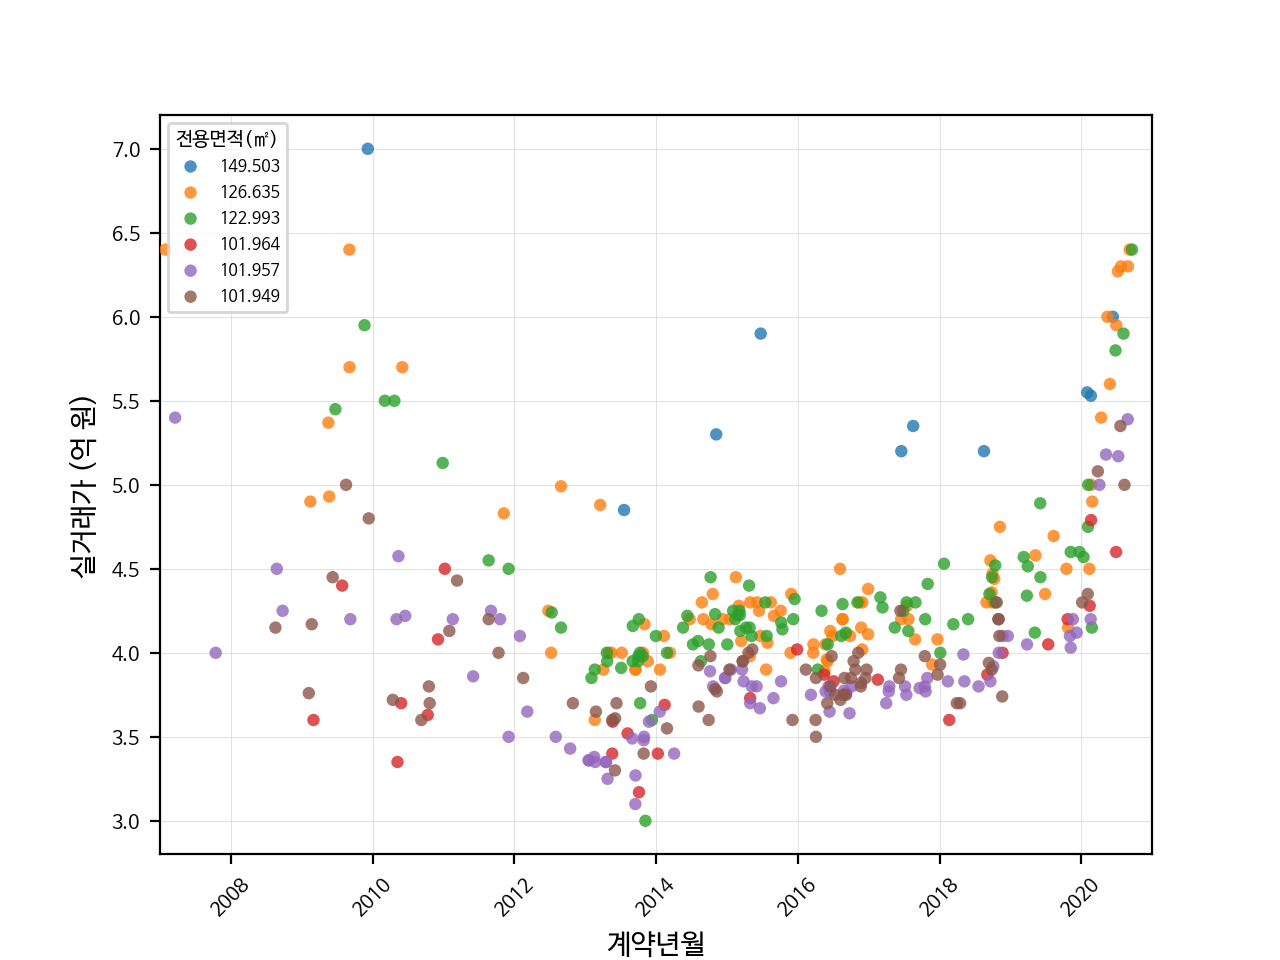
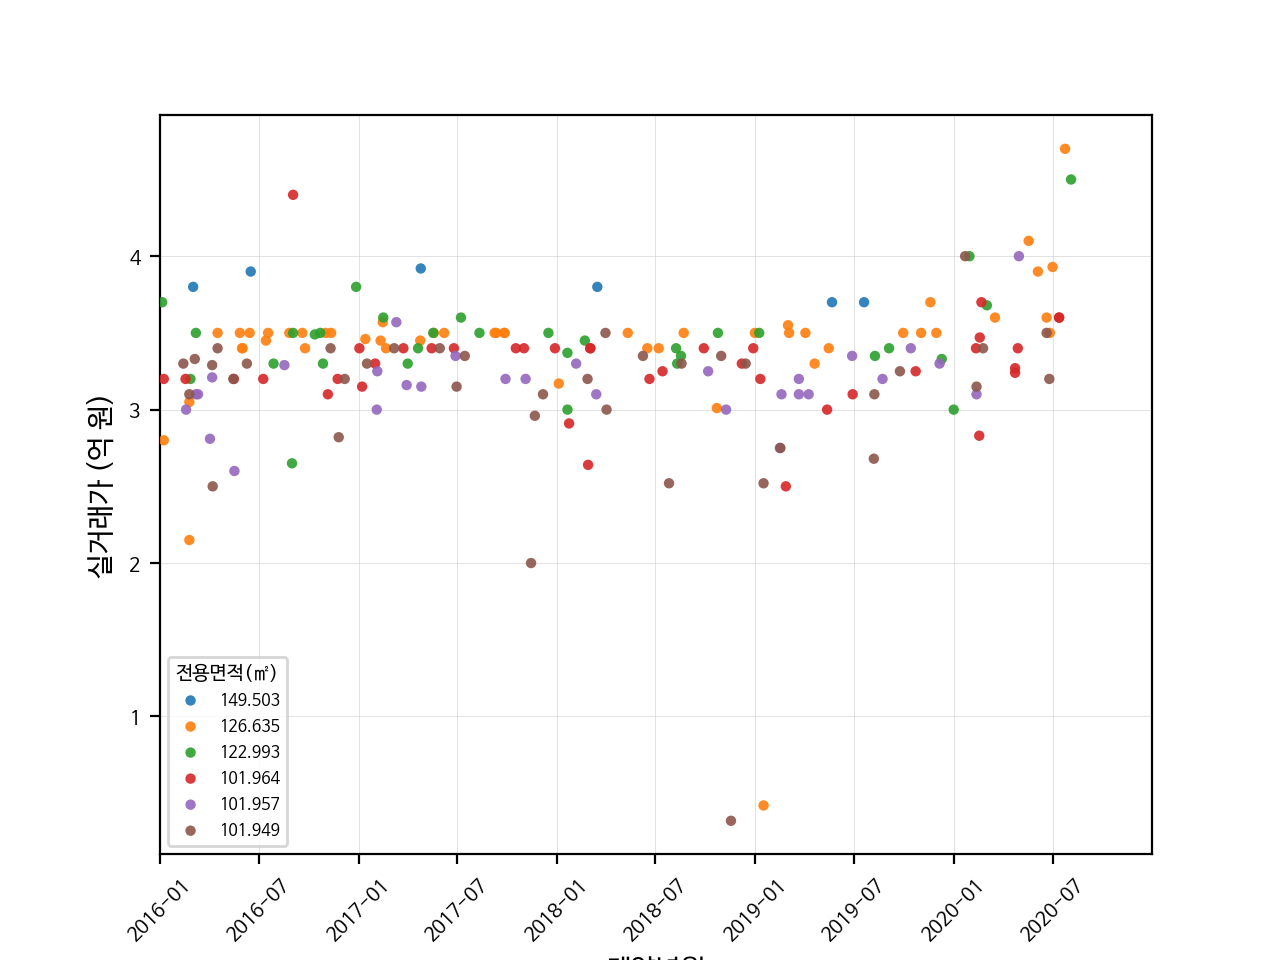
주택가격 거래금액 기준으로 차트를 생성하고 있으나 임대차 경우에는 월세로 인하여 차트 생성에 제한되어 전월세 전환율을 이용하여 거래금액 생성 - 한국감정원의 전월세 전환율을 엑셀로 다운로드  http://kosis.kr/statHtml/statHtml.do?orgId=408&tblId=DT_30404_N0010 - 임대차 거래의 년, 월, 구, 보증금, 월세 정보를 이용하여 거래금액 생성 - class 이름 변경

diff --git a/main.py b/main.py
@@ -6,10 +6,11 @@ import kaptList as al
 import kaptInfo as ai
 import houseDeal as hd
 import elecPlace as ep
-import aptPriceAnalysis as apa
+import housePriceAnalysis as hpa
 import elecZone as ez
 import elecResult as er
 import houseInfo as hi
+import rentChangeRate as cr
 import elecCode as el
 import pandas as pd
 import openpyxl
@@ -69,13 +70,13 @@ doc_house_info = 'doc/공동주택 현황.xlsx'
 doc_elec_place_list = 'doc/투표구 관할구역.xlsx'
 doc_elec_zone_list = 'doc/투표소별 단지 현황.xlsx'
 doc_trade_price = 'doc/주택 매매 현황.xlsx'
-doc_rent_price = 'doc/주택 전월세 현황.xlsx'
+doc_rent_price = 'doc/주택 임대차 현황.xlsx'
 
 price_chart = 'chart.png'
-start_year = 2019
-start_month = 12
+start_year = 2016
+start_month = 1
 end_year = 2020
-end_month = 1
+end_month = 12
 
 if False:
     def get_bjd_code(conf_bjd_code):
@@ -103,7 +104,7 @@ if False:
     kapt_info_final.to_excel(doc_kapt_info)
     print(kapt_info_final)
 
-if True:
+if False:
     house_info = hi.HouseInfo(conf_yiapt_list_file, conf_yiapt_list_sheet, doc_kapt_info, conf_kapt_info_fix)
     house_info.run()
     house_info.print()
@@ -123,14 +124,14 @@ if False:
     elec_zone.match_zone()
     elec_zone.to_excel(doc_elec_zone_list)
 
-if False:
+if True:
     rt_urls = {'apt_trade': 'http://openapi.molit.go.kr:8081/OpenAPI_ToolInstallPackage/service/rest/RTMSOBJSvc/getRTMSDataSvcAptTrade',
                'apt_rent': 'http://openapi.molit.go.kr:8081/OpenAPI_ToolInstallPackage/service/rest/RTMSOBJSvc/getRTMSDataSvcAptRent',
                'rh_trade': 'http://openapi.molit.go.kr:8081/OpenAPI_ToolInstallPackage/service/rest/RTMSOBJSvc/getRTMSDataSvcRHTrade',
                'rh_rent': 'http://openapi.molit.go.kr:8081/OpenAPI_ToolInstallPackage/service/rest/RTMSOBJSvc/getRTMSDataSvcRHRent'}
     target_gus = ['기흥구']
 
-    def get_deal_list(deal_type, export_filename, house_types):
+    def get_deal_list(deal_type, house_types):
         deal_items = []
         for house_type in house_types:
             key = house_type + '_' + deal_type
@@ -144,15 +145,42 @@ if False:
             deal_items.append(deal.items)
 
         house_prices = pd.concat(deal_items, ignore_index=True)
-        house_prices.to_excel(export_filename)
+        return house_prices
 
-    get_deal_list('rent', doc_rent_price, ['apt', 'rh'])
-    get_deal_list('trade', doc_trade_price, ['apt', 'rh'])
+    def postprocess_rent_prices(my_rent_prices):
+        conf_rent_change_rate = 'conf/전월세 전환율.xlsx'
+        rent_change_rates = cr.RentChageRate(conf_rent_change_rate)
+        my_rent_prices['전월세 전환율'] = ''
+        my_rent_prices['거래금액'] = ''
 
-if False:
-    apt_price_analysis = apa.AptPriceAnalysis(doc_rent_price, price_chart, start_year, start_month, end_year, end_month)
-    apt_price_analysis.analysis('중동 870')
+        for index in range(my_rent_prices.index.size):
+            rent = int(my_rent_prices.at[index, '월세금액'])
+            deposit = int(my_rent_prices.at[index, '보증금액'])
+            gu_name = my_rent_prices.at[index, '구']
+            year = int(my_rent_prices.at[index, '년'])
+            month = int(my_rent_prices.at[index, '월'])
+
+            rate = rent_change_rates.get(gu_name, year, month)
+
+            price = (rent*12) / rate * 100 + deposit
+            price = round(price, -2)
+            my_rent_prices.at[index, '전월세 전환율'] = rate
+            my_rent_prices.at[index, '거래금액'] = price
+
+        return my_rent_prices
+
+    trade_prices = get_deal_list('trade', ['apt', 'rh'])
+    trade_prices.to_excel(doc_trade_price)
+
+    rent_prices = get_deal_list('rent', ['apt', 'rh'])
+    rent_prices = postprocess_rent_prices(rent_prices)
+    rent_prices.to_excel(doc_rent_price)
+
+if True:
+    house_price_analysis = hpa.HousePriceAnalysis(doc_rent_price, price_chart, start_year, start_month, end_year, end_month)
+    house_price_analysis.analysis('중동 870')
 
 if False:
     elec_result = er.ElecResult()
     elec_result.run()
+

diff --git a/rentChangeRate.py b/rentChangeRate.py
@@ -1,0 +1,40 @@
+import pandas as pd
+
+
+class RentChageRate:
+    def __init__(self, conf_rent_change_rate):
+        self.items = pd.read_excel(conf_rent_change_rate)
+        self.items.set_index('지역(3)', inplace=True)
+
+        texts = self.items.columns.values[-1].split('. ')
+        self._last_year = int(texts[0])
+        self._last_month = int(texts[1])
+
+        print('한국감정원 전월세 전환율 데이터: 2011.1 ~', self._last_year, '.', self._last_month)
+        print(self.items)
+
+    def _validate_ym(self, year, month):
+        if month < 1:
+            month = 1
+        elif month > 12:
+            month = 12
+
+        if year < 2011:
+            year = 2011
+            month = 1
+        elif year > self._last_year:
+            year = self._last_year
+            month = self._last_month
+        elif year == self._last_year:
+            if month > self._last_month:
+                month = self._last_month
+
+        return year, month
+
+    def get(self, gu_name, year_in, month_in):
+        year, month = self._validate_ym(year_in, month_in)
+        ym = str(year) + '. ' + str(month).zfill(2)
+        rate = self.items.loc[gu_name, ym]
+        # print(gu_name, ym, rate)
+
+        return rate

diff --git a/housePriceAnalysis.py b/housePriceAnalysis.py
@@ -6,7 +6,7 @@ from matplotlib import font_manager
 import numpy as np
 
 
-class AptPriceAnalysis:
+class HousePriceAnalysis:
     def __init__(self, doc_apt_price, price_chart, start_year, start_month, end_year, end_month):
         self.deal_price_all = pd.read_excel(doc_apt_price)
 
@@ -63,7 +63,7 @@ class AptPriceAnalysis:
             area_size = round(area_size, 3)
             print(area_size)
             plot_data = deal_prices[is_size][['date', '거래금액']]
-            ax.scatter(plot_data['date'], plot_data['거래금액']/10000, label=area_size, s=20, alpha=0.8, edgecolors='none', zorder=3)
+            ax.scatter(plot_data['date'], plot_data['거래금액']/10000, label=area_size, s=14, alpha=0.9, edgecolors='none', zorder=3)
 
         ax.legend(fontsize='xx-small', title='전용면적(㎡)', title_fontsize='x-small')
         plt.show()

diff --git a/houseDeal.py b/houseDeal.py
@@ -136,4 +136,8 @@ class HouseDealRent(HouseDeal):
             self._append_data('일', split_item[8])
             self._append_data('전용면적', split_item[9])
             self._append_data('지번', split_item[10])
-            self._append_data('층', split_item[12])
+            if len(split_item) > 12:
+                self._append_data('층', split_item[12])
+            else:
+                self._append_data('층', '-')
+
